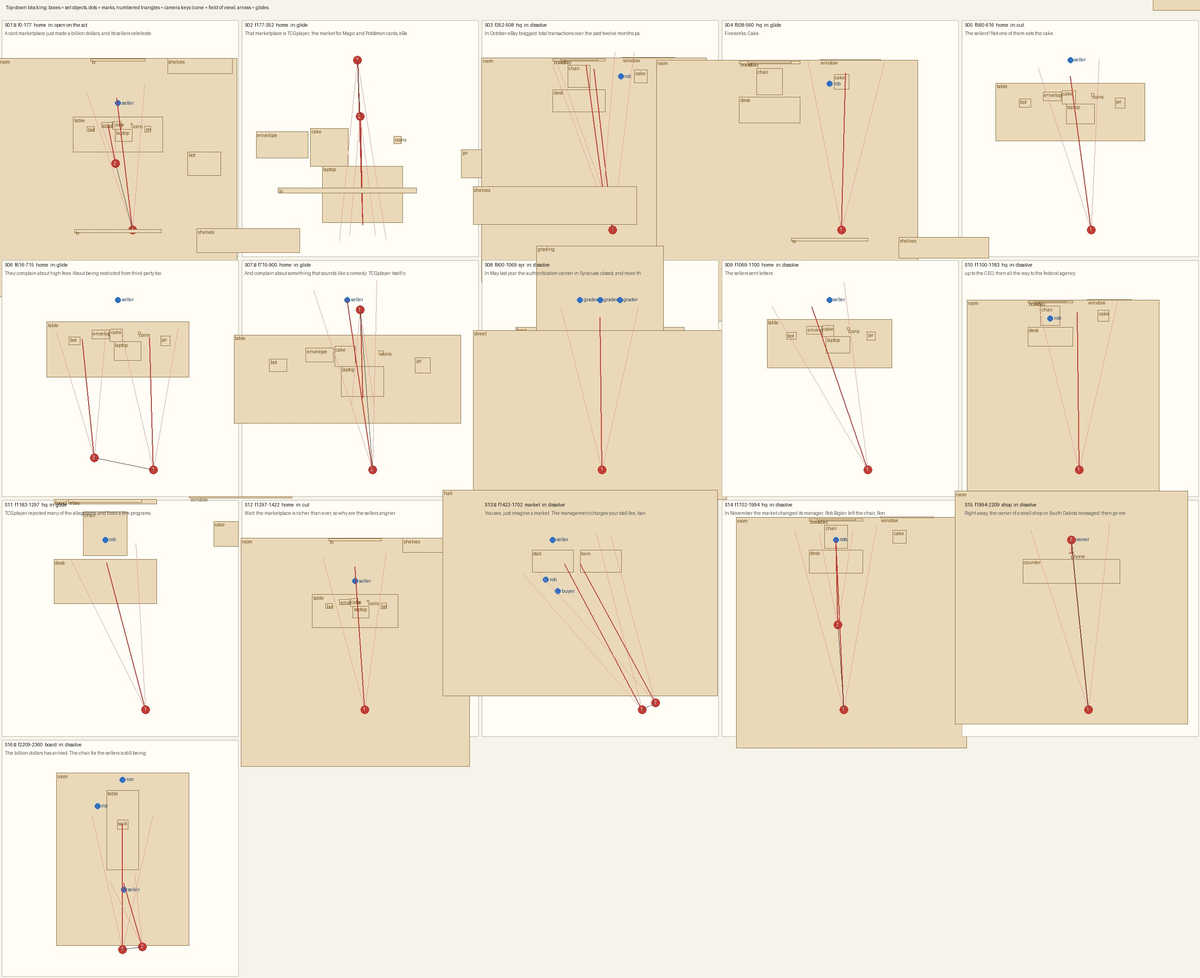
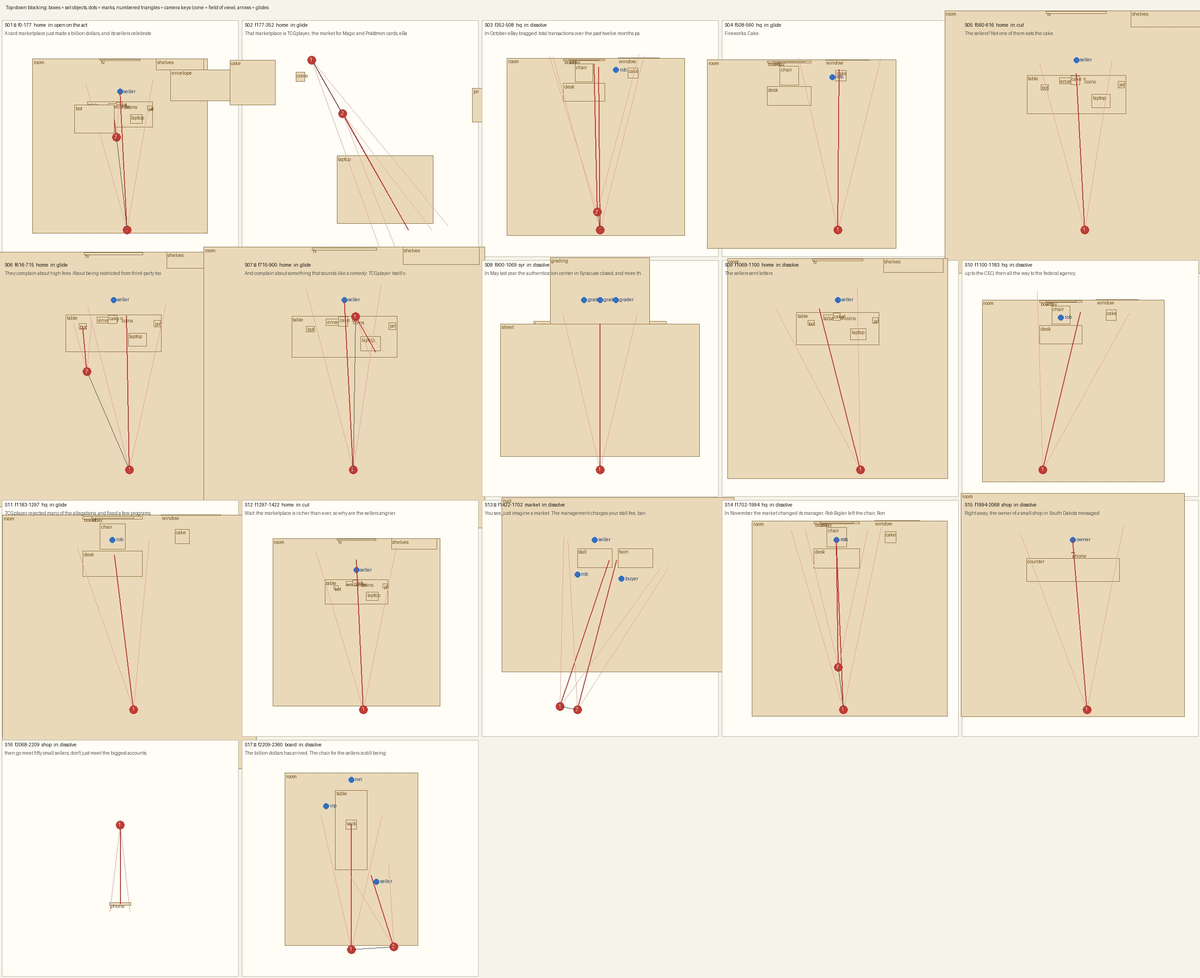
TCGplayer reel v2: notes (quality-bar re-edit, projection bug), direction, blocking sheet, CLAUDE.md status

diff --git a/videos/tcgplayer-sellers/direction.md b/videos/tcgplayer-sellers/direction.md
@@ -32,19 +32,19 @@ Hard cuts: S05 (the cake refused) and S12 ("Khoan"); plus the S07 reaction cut i
 |---|---|---|---|
 | room | new: workroom x -2.4..2.4, z -2.4..2.4, 2.6 m, sage walls, wood floor, ceiling (no shadows), window in the -x wall | [0, 1.3, 0] | [4.8, 2.6, 4.8] |
 | table | new: packing table, birch top y 0.76 on four legs, x -0.9..0.9, z -1.22..-0.52; bubble mailers and top loaders on it | [0, 0.38, -0.87] | [1.8, 0.76, 0.7] |
-| laptop | new: laptop 34 x 24 cm base, screen 34 x 21.5 cm (canvas: the TCGplayer page) facing the seller, tilted back 15 deg | [0.12, 0.76, -0.85] | [0.34, 0.24, 0.24] |
+| laptop | new: laptop 34 x 24 cm base, screen 34 x 21.5 cm (canvas: the TCGplayer page) facing the seller, tilted back 15 deg | [0.45, 0.76, -0.75] | [0.34, 0.24, 0.24] |
 | tv | new: wall TV 110 x 62 cm (canvas: business news, the GMV counter), black bezel | [0, 1.78, -2.37] | [1.1, 0.62, 0.04] |
-| envelope | new: kraft envelope 22 x 11 cm addressed CO QUAN LIEN BANG; rubber stamp (wood knob, red rubber) beside it; the stamp prints XIN ĐIỀU TRA | [-0.22, 0.76, -1.06] | [0.22, 0.004, 0.11] |
-| coins | new: a stack of 10 gold coins (r 1.6 cm, 3 mm) = a sale's takings | [0.27, 0.76, -1.08] | [0.032, 0.03, 0.032] |
-| jar | new: glass jar r 6 cm, 13 cm, paper label PHÍ, coins drop in | [0.6, 0.76, -0.98] | [0.12, 0.13, 0.12] |
-| bot | new: his third-party price scanner: grey box 14 x 6 x 10 cm with a tilted top screen (canvas: PRICE BOT, then BỊ CHẶN in red) | [-0.55, 0.76, -0.98] | [0.14, 0.06, 0.1] |
-| cake | new: (S05) an open white cake box labelled eBay and a slice of sponge cake on a paper plate in front of him | [-0.02, 0.76, -1.05] | [0.16, 0.06, 0.16] |
+| envelope | new: kraft envelope 22 x 11 cm addressed CO QUAN LIEN BANG; rubber stamp (wood knob, red rubber) beside it; the stamp prints XIN ĐIỀU TRA | [-0.2, 0.76, -1.12] | [0.22, 0.004, 0.11] |
+| coins | new: a stack of 10 gold coins (r 1.6 cm, 3 mm) = a sale's takings | [0.15, 0.76, -1.15] | [0.032, 0.03, 0.032] |
+| jar | new: glass jar r 6 cm, 13 cm, paper label PHÍ, coins drop in | [0.82, 0.76, -1.05] | [0.12, 0.13, 0.12] |
+| bot | new: his third-party price scanner: grey box 14 x 6 x 10 cm with a tilted top screen (canvas: PRICE BOT, then BỊ CHẶN in red) | [-0.58, 0.76, -1] | [0.14, 0.06, 0.1] |
+| cake | new: (S05) an open white cake box labelled eBay and a slice of sponge cake on a paper plate in front of him | [-0.02, 0.76, -1.13] | [0.16, 0.06, 0.16] |
 | shelves | new: shelves of card boxes and binders on the back wall (x 1.0..2.3) | [1.65, 1.3, -2.25] | [1.3, 1.8, 0.3] |
 
 ### hq
 - Origin in the shared world: [40, 0, 0]. Axes: the GMV board on the back wall z -3.0 under an eBay sign; the boss's desk in front of it; the window on the night city at +x.
 - Light: day; sun az/el [30, 40]. Open camera sides: +z.
-- Marks [x, z]: rob_desk [-0.4, -2.42]; rob_lever [0.72, -2.5]; rob_cake [0.98, -2.45].
+- Marks [x, z]: rob_desk [-0.4, -2.42]; rob_lever [0.68, -2.6]; rob_cake [0.98, -2.45].
 
 | id | build | centre [x, y, z] | size [x, y, z] m |
 |---|---|---|---|
@@ -70,18 +70,18 @@ Hard cuts: S05 (the cake refused) and S12 ("Khoan"); plus the S07 reaction cut i
 
 ### market
 - Origin in the shared world: [120, 0, 0]. Axes: two stalls along x facing +z; the seller sits behind his stall; buyers walk in front (z ~ 0).
-- Light: golden; sun az/el [-35, 30]. Open camera sides: +z.
-- Marks [x, z]: seller [-0.8, -1.55]; buyer [-0.65, -0.05].
+- Light: day; sun az/el [-35, 30]. Open camera sides: +z.
+- Marks [x, z]: seller [-0.8, -1.55]; buyer [0.12, -0.2].
 
 | id | build | centre [x, y, z] | size [x, y, z] m |
 |---|---|---|---|
-| hall | new: covered market hall x -4..4, z -3..3, 3.6 m, cream walls, tiled floor, ceiling with warm lamps, bunting | [0, 1.8, 0] | [8, 3.6, 6] |
+| hall | new: covered market hall x -4..4, z -3..4.5, 3.6 m, cream walls, tiled floor, ceiling with warm lamps, bunting | [0, 1.8, 0] | [8, 3.6, 6] |
 | stall | new: his stall: table x -1.4..-0.2, z -1.25..-0.6, top y 0.8, striped awning on two posts, sign SẠP CỦA BẠN; cards on tilted stands; a coin tin; his small brass pack scale | [-0.8, 0.4, -0.92] | [1.2, 0.8, 0.65] |
 | twin | new: the twin stall (identical, sign BAN QUẢN LÝ, same cards) on four castors, rolls in from x 3.4 to 0.6 | [0.6, 0.4, -0.92] | [1.2, 0.8, 0.65] |
 
 ### shop
 - Origin in the shared world: [160, 0, 0]. Axes: the counter faces +z; the owner stands behind it.
-- Light: golden; sun az/el [-30, 30]. Open camera sides: +z.
+- Light: day; sun az/el [-30, 30]. Open camera sides: +z.
 - Marks [x, z]: owner [0, -1.4].
 
 | id | build | centre [x, y, z] | size [x, y, z] m |
@@ -93,7 +93,7 @@ Hard cuts: S05 (the cake refused) and S12 ("Khoan"); plus the S07 reaction cut i
 ### board
 - Origin in the shared world: [200, 0, 0]. Axes: the long table runs along z; the boss at the head (far end, z -3.0) facing +z; the seller at the near end.
 - Light: day; sun az/el [25, 40]. Open camera sides: +z.
-- Marks [x, z]: ron [0, -3]; seller [0.05, 1.15].
+- Marks [x, z]: ron [0, -3]; seller [0.95, 0.85].
 
 | id | build | centre [x, y, z] | size [x, y, z] m |
 |---|---|---|---|
@@ -127,8 +127,8 @@ Hard cuts: S05 (the cake refused) and S12 ("Khoan"); plus the S07 reaction cut i
 
 | f | move | pos | look | fov | push %/f | blur px | why |
 |---|---|---|---|---|---|---|---|
-| 0 | open | [0.3, 1.32, 1.05] | [-0.02, 1.2, -1.6] | 40 | 0.18 | 6 | the seller under the TV |
-| 114 | glide 30 f | [-0.05, 1.18, -0.28] | [-0.2, 0.84, -1.06] | 32 | 0.3 (punch 0.8 for 14 f) | 10 | push onto the stamp |
+| 0 | open | [0.2, 1.3, 2.3] | [0, 1.05, -1.5] | 44 | 0.08 | 0 | the seller under the TV |
+| 114 | glide 30 f | [-0.1, 1.22, -0.25] | [-0.2, 0.8, -1.12] | 40 | 0.1 (punch 0.3 for 14 f) | 0 | push onto the stamp |
 
 - Kicks (7 f): f144 strength 1.
 - Physics & FX: confetti: 40 paper bits (0.3 g) launched in a cone from the popper, drift down with air drag and side flutter, lie flat on the table and floor and stay. Stamp: 4 f wind-up, held, 1 f strike, 2 f squash.
@@ -149,8 +149,8 @@ Hard cuts: S05 (the cake refused) and S12 ("Khoan"); plus the S07 reaction cut i
 
 | f | move | pos | look | fov | push %/f | blur px | why |
 |---|---|---|---|---|---|---|---|
-| 177 | open | [0.1, 1.24, -1.42] | [0.12, 0.885, -0.72] | 26 | 0.15 | 8 | his laptop, from his eyes |
-| 318 | glide 34 f | [0.11, 1.1, -1.18] | [0.12, 0.92, -0.72] | 22 | 0.4 | 8 | push into the eBay badge |
+| 177 | open | [0.19, 1.17, -1.21] | [0.532, 0.879, -0.608] | 34 | 0.15 | 0 | his laptop, from his eyes |
+| 318 | glide 34 f | [0.3, 1.08, -1.02] | [0.532, 0.86, -0.608] | 28 | 0.4 | 0 | push into the eBay badge |
 
 - Kicks (7 f): none.
 - Physics & FX: none.
@@ -165,15 +165,15 @@ Hard cuts: S05 (the cake refused) and S12 ("Khoan"); plus the S07 reaction cut i
 - Set: hq. Light: day.
 - Build: new: the HQ office: GMV board with lever, eBay sign and TCGplayer plate, desk, chair, cake table, window on the night city.
 - Blocking: Rob stands at rob_lever facing +z, his right arm (screen left) on the lever knob.
-  - rob at [0.72, -2.5], front; standing; pulls the lever f386-392; arm spreads f482; grin.
+  - rob at [0.68, -2.6], front; standing; pulls the lever f386-392; arm spreads f482; grin.
 - Action, against the words: f352-385 the board reads $987,000,000 (GMV 12 THÁNG); f386-392 he grips and pulls the lever down on 'khoe' (f389): the lever swings 50 deg; f392-479 the flaps spin, the count climbs; f480 they land on $1,000,000,000 on 'một tỷ đô' (f479-493): every flap snaps, a small dust puff off the board top; he grins and spreads his free arm.
 - Acting: Proud grin, chin up.
 - Camera keys:
 
 | f | move | pos | look | fov | push %/f | blur px | why |
 |---|---|---|---|---|---|---|---|
-| 352 | open | [0.5, 1.6, 1.6] | [0, 1.85, -2.7] | 46 | 0.15 | 4 | the board, the boss |
-| 440 | glide 40 f | [0.25, 1.55, 0.6] | [-0.2, 1.85, -2.8] | 42 | 0.3 (punch 0.7 for 16 f) | 6 | push on the count |
+| 352 | open | [0.15, 1.5, 2.8] | [0.1, 1.6, -2.7] | 50 | 0.06 | 0 | the board, the boss |
+| 440 | glide 40 f | [0.05, 1.55, 2.2] | [-0.05, 1.45, -2.8] | 54 | 0 | 0 | push on the count |
 
 - Kicks (7 f): f480 strength 0.6.
 - Physics & FX: the lever: a damped swing to its stop (3 deg overshoot, settles in 8 f).
@@ -195,7 +195,7 @@ Hard cuts: S05 (the cake refused) and S12 ("Khoan"); plus the S07 reaction cut i
 
 | f | move | pos | look | fov | push %/f | blur px | why |
 |---|---|---|---|---|---|---|---|
-| 508 | open | [1.25, 1.6, 0.9] | [1.35, 1.55, -2.7] | 44 | 0.2 | 4 | the window, the cake |
+| 508 | open | [1.15, 1.5, 2.4] | [1.2, 1.4, -2.7] | 46 | 0.1 | 0 | the window, the cake |
 
 - Kicks (7 f): none.
 - Physics & FX: the slice wedge tips 8 deg and stops.
@@ -217,7 +217,7 @@ Hard cuts: S05 (the cake refused) and S12 ("Khoan"); plus the S07 reaction cut i
 
 | f | move | pos | look | fov | push %/f | blur px | why |
 |---|---|---|---|---|---|---|---|
-| 560 | open | [0.25, 1.22, 0.55] | [0, 1.05, -1.3] | 36 | 0.2 | 8 | the seller and the slice |
+| 560 | open | [0.15, 1.6, 1.6] | [0, 1, -1.25] | 42 | 0.1 | 0 | the seller and the slice |
 
 - Kicks (7 f): none.
 - Physics & FX: the plate: kinematic slide 18 cm, decelerating (friction), stops dead.
@@ -239,8 +239,8 @@ Hard cuts: S05 (the cake refused) and S12 ("Khoan"); plus the S07 reaction cut i
 
 | f | move | pos | look | fov | push %/f | blur px | why |
 |---|---|---|---|---|---|---|---|
-| 616 | open | [0.45, 1.5, 0.65] | [0.4, 0.84, -1.02] | 40 | 0.15 | 6 | the table from above his eye line |
-| 662 | glide 36 f | [-0.3, 1.45, 0.5] | [-0.45, 0.86, -1] | 38 | 0.2 | 8 | to the scanner |
+| 616 | open | [0.3, 1.55, 1.7] | [0.25, 0.95, -1.2] | 46 | 0.1 | 0 | the table from above his eye line |
+| 652 | glide 42 f | [-0.5, 1.35, -0.15] | [-0.58, 0.86, -1] | 36 | 0.2 | 0 | to the scanner |
 
 - Kicks (7 f): none.
 - Physics & FX: coins: three ballistic hops (12 f each, 0.25 m apex), land in the jar and stay; the stack is 3 coins shorter.
@@ -262,8 +262,8 @@ Hard cuts: S05 (the cake refused) and S12 ("Khoan"); plus the S07 reaction cut i
 
 | f | move | pos | look | fov | push %/f | blur px | why |
 |---|---|---|---|---|---|---|---|
-| 715 | open | [0.1, 1.24, -1.42] | [0.12, 0.885, -0.72] | 24 | 0.15 | 8 | his listing |
-| 872 | cut | [0.2, 1.4, -0.15] | [0, 1.38, -1.5] | 34 | 0.3 | 10 | his face |
+| 715 | open | [0.19, 1.17, -1.21] | [0.532, 0.879, -0.608] | 32 | 0.15 | 0 | his listing |
+| 872 | cut | [0.15, 1.4, 1.4] | [0, 1.15, -1.5] | 40 | 0.15 | 0 | his face |
 
 - Kicks (7 f): f866 strength 1.
 - Physics & FX: the Direct tile: drops with gravity (accelerating) and stops dead with 2 f of squash; his tile is shoved 40 % down and stays.
@@ -287,7 +287,7 @@ Hard cuts: S05 (the cake refused) and S12 ("Khoan"); plus the S07 reaction cut i
 
 | f | move | pos | look | fov | push %/f | blur px | why |
 |---|---|---|---|---|---|---|---|
-| 900 | open | [0.1, 1.65, 5.6] | [0, 1.55, -1.6] | 46 | 0.15 | 3 | the building, the open door |
+| 900 | open | [0, 1.9, 7.8] | [0, 1.8, -1] | 46 | 0.04 | 0 | the building, the open door |
 
 - Kicks (7 f): f994 strength 0.4.
 - Physics & FX: shutter: rolls down at 0.13 m/f, the bottom bar hits the ground f994 and bounces 1 cm.
@@ -309,7 +309,7 @@ Hard cuts: S05 (the cake refused) and S12 ("Khoan"); plus the S07 reaction cut i
 
 | f | move | pos | look | fov | push %/f | blur px | why |
 |---|---|---|---|---|---|---|---|
-| 1069 | open | [0.55, 1.35, 0.95] | [-0.25, 1.3, -1.4] | 40 | 0.2 | 6 | the throw |
+| 1069 | open | [0.5, 1.35, 2.2] | [-0.4, 1.1, -1.3] | 46 | 0.1 | 0 | the throw |
 
 - Kicks (7 f): none.
 - Physics & FX: the plane: a glide path, 2.4 m/s, slight climb and roll.
@@ -331,7 +331,7 @@ Hard cuts: S05 (the cake refused) and S12 ("Khoan"); plus the S07 reaction cut i
 
 | f | move | pos | look | fov | push %/f | blur px | why |
 |---|---|---|---|---|---|---|---|
-| 1100 | open | [0.5, 1.6, 2.3] | [0.45, 1.45, -2.6] | 46 | 0.06 | 4 | desk and window |
+| 1100 | open | [-1, 1.6, 2.6] | [0.25, 1.4, -2.6] | 52 | 0.06 | 0 | desk and window |
 
 - Kicks (7 f): none.
 - Physics & FX: plane 1: glides down at 2 m/s, touches the desk, skids 20 cm and stops.
@@ -353,7 +353,7 @@ Hard cuts: S05 (the cake refused) and S12 ("Khoan"); plus the S07 reaction cut i
 
 | f | move | pos | look | fov | push %/f | blur px | why |
 |---|---|---|---|---|---|---|---|
-| 1183 | open | [0.15, 1.55, -0.1] | [-0.38, 1, -2.1] | 40 | 0.2 | 8 | the desk top and the boss |
+| 1183 | open | [0.1, 1.7, 1.6] | [-0.35, 1, -2.05] | 42 | 0.1 | 0 | the desk top and the boss |
 
 - Kicks (7 f): f1200 strength 0.6; f1226 strength 0.6; f1255 strength 0.5.
 - Physics & FX: stamp strikes: 4 f wind-up, 1 f strike, 2 f squash.
@@ -375,7 +375,7 @@ Hard cuts: S05 (the cake refused) and S12 ("Khoan"); plus the S07 reaction cut i
 
 | f | move | pos | look | fov | push %/f | blur px | why |
 |---|---|---|---|---|---|---|---|
-| 1297 | open | [0.2, 0.95, 1.2] | [0, 1.55, -1.8] | 40 | 0.3 | 4 | low angle: him and the TV |
+| 1297 | open | [0.2, 1, 2.5] | [0, 1.2, -1.8] | 48 | 0.07 | 0 | low angle: him and the TV |
 
 - Kicks (7 f): none.
 - Physics & FX: steam puffs rise 0.3 m and fade.
@@ -387,20 +387,20 @@ Hard cuts: S05 (the cake refused) and S12 ("Khoan"); plus the S07 reaction cut i
 - Gloss: You see, just imagine a market. The management charges your stall fee, bans you from bringing your own scale, then builds an identical stall right next to yours, selling exactly what you sell.
 - Spine link: 4. Viewer must get: Fee, banned scale, a copycat stall right beside his.
 - In: dissolve 10 f. Out: dissolve 8 f.
-- Set: market. Light: golden.
+- Set: market. Light: day.
 - Build: new: the market hall, his stall and the twin stall.
 - Blocking: Seller seated behind his stall. Buyer at buyer_a. The manager (Rob, armband) walks in from mgr_in (f1486-1508) to mgr_tin, then mgr_scale (f1542-1550), carries the scale off right (f1576-1592), comes back pushing the twin stall from mgr_push (f1596-1646).
   - seller at [-0.8, -1.55], front; seated behind his stall; smile -> nervous -> stern.
-  - rob at [-1, -0.38], front; bag held; takes the scale f1550; pushes the twin stall; smile.
-  - buyer at [-0.65, -0.05], front; browses, then steps to the twin f1681; neutral.
+  - rob at [-1.4, -0.35], front; bag held; takes the scale f1550; pushes the twin stall; smile.
+  - buyer at [0.12, -0.2], front; browses, then steps to the twin f1681; neutral.
 - Action, against the words: f1422-1480 calm market: the buyer browses his cards; f1517-1532 three coins hop from his tin into the manager's bag on 'thu phí sạp' (f1517, f1522, f1527); f1552 the manager lifts the brass scale off the stall on 'cấm' (f1548) and carries it off screen right; f1600-1646 the twin stall rolls in from the right on castors and bumps against the end of his stall on 'cạnh' (f1646): the scale-less stall shudders; f1657-1685 the twin's cards are the same cards; the buyer steps from buyer_a to buyer_b on 'bạn bán' (f1681-1695).
 - Acting: Seller: smile -> nervous -> stern. Manager: polite smile throughout. Buyer: neutral.
 - Camera keys:
 
 | f | move | pos | look | fov | push %/f | blur px | why |
 |---|---|---|---|---|---|---|---|
-| 1422 | open | [1.8, 2.4, 3.4] | [-0.45, 0.95, -0.85] | 46 | 0.12 | 3 | the calm market, high |
-| 1600 | glide 40 f | [2.2, 2.3, 3.2] | [0, 0.95, -0.85] | 46 | 0.15 | 3 | room for the twin stall |
+| 1422 | open | [-2, 2.5, 4.2] | [-0.3, 0.95, -0.85] | 58 | 0.08 | 0 | the calm market, high |
+| 1600 | glide 40 f | [-1.4, 2.5, 4.3] | [-0.05, 0.95, -0.85] | 60 | 0.08 | 0 | room for the twin stall |
 
 - Kicks (7 f): f1646 strength 0.6.
 - Physics & FX: coins: three ballistic hops into the bag; twin stall: 60 kg on castors, eases in at 0.06 m/f, bumps (0.6 kick) and stops; his stall shudders 1 cm.
@@ -423,8 +423,8 @@ Hard cuts: S05 (the cake refused) and S12 ("Khoan"); plus the S07 reaction cut i
 
 | f | move | pos | look | fov | push %/f | blur px | why |
 |---|---|---|---|---|---|---|---|
-| 1702 | open | [-0.2, 1.55, 2] | [-0.4, 1.5, -2.4] | 44 | 0.12 | 4 | the chair, the board |
-| 1860 | glide 40 f | [-0.35, 1.38, -0.2] | [-0.4, 1.38, -2.42] | 36 | 0.25 | 10 | Ron's pitch, low and close |
+| 1702 | open | [-0.2, 1.5, 2.8] | [-0.4, 1.45, -2.4] | 48 | 0.06 | 0 | the chair, the board |
+| 1860 | glide 40 f | [-0.35, 1.4, 1.5] | [-0.4, 1.05, -2.42] | 44 | 0.12 | 0 | Ron's pitch, low and close |
 
 - Kicks (7 f): none.
 - Physics & FX: the nameplate: a 180 deg flip on its hinge in 6 f.
@@ -432,30 +432,50 @@ Hard cuts: S05 (the cake refused) and S12 ("Khoan"); plus the S07 reaction cut i
 - Sound: chair creak f1795; footsteps out f1800-1830, in f1816-1842; chair creak f1844; nameplate flip f1848; a corporate synth pad under Ron's line.
 - After-state: Ron in the chair.
 
-### S15 · 1:06.5-1:13.6 · f1994-f2209 · "Lập tức, chủ một cửa hàng nhỏ ở South Dakota nhắn: vậy thì gặp năm mươi người bán nhỏ đi, đừng chỉ gặp mấy tài khoản to nhất."
-- Gloss: Right away, the owner of a small shop in South Dakota messaged: then go meet fifty small sellers, don't just meet the biggest accounts.
-- Spine link: 5. Viewer must get: A small shop owner answers with a message: meet fifty of us.
-- In: dissolve 8 f. Out: dissolve 8 f.
-- Set: shop. Light: golden.
-- Build: new: the shop: counter, shelves, the sign; the owner's phone with a chat (a message typed and sent).
+### S15 · 1:06.5-1:08.9 · f1994-f2068 · "Lập tức, chủ một cửa hàng nhỏ ở South Dakota nhắn:"
+- Gloss: Right away, the owner of a small shop in South Dakota messaged:
+- Spine link: 5. Viewer must get: A small shop owner takes out his phone.
+- In: dissolve 8 f. Out: dissolve 6 f (through-object: into his phone screen, seen from his eyes).
+- Set: shop. Light: day.
+- Build: new: the shop: counter, shelves, the sign, framed cards on the walls.
 - Blocking: Owner stands behind the counter at his mark, phone in both arms at his chest.
   - owner at [0, -1.4], front; standing, phone at the chest; stern.
-- Action, against the words: f1994-2060 he takes out his phone and starts typing on 'nhắn' (f2071); f2075-2140 line 1 'Vậy thì gặp 50 người bán nhỏ đi,' types; f2145-2190 line 2 'đừng chỉ gặp mấy tài khoản to nhất.'; f2196 SEND, the bubble flies up.
+- Action, against the words: f1994-2068 he looks down at his phone and starts typing on 'nhắn' (f2071).
 - Acting: Determined frown.
 - Camera keys:
 
 | f | move | pos | look | fov | push %/f | blur px | why |
 |---|---|---|---|---|---|---|---|
-| 1994 | open | [0.35, 1.6, 2.1] | [0, 1.35, -1.4] | 42 | 0.15 | 5 | the small shop, the owner |
-| 2066 | glide 34 f | [0, 1.66, -1.4] | [0, 1.22, -1.12] | 34 | 0.15 | 6 | his screen from his eyes |
+| 1994 | open | [0.3, 1.55, 2.25] | [0, 1.2, -1.4] | 54 | 0.06 | 0 | the small shop, the owner (wide) |
 
 - Kicks (7 f): none.
 - Physics & FX: none.
 - Light & mood: warm shop light.
+- Sound: shop ambience; first key taps.
+- After-state: Phone in hand.
+
+### S16 · 1:08.9-1:13.6 · f2068-f2209 · "vậy thì gặp năm mươi người bán nhỏ đi, đừng chỉ gặp mấy tài khoản to nhất."
+- Gloss: then go meet fifty small sellers, don't just meet the biggest accounts.
+- Spine link: 5. Viewer must get: His message, typed and sent.
+- In: dissolve 6 f. Out: dissolve 8 f.
+- Set: shop. Light: day.
+- Build: reuse the shop; his phone with a chat (the message typed and sent), seen only from his side.
+- Blocking: POV: his eyes on his phone (he is not drawn).
+- Action, against the words: f2075-2140 line 1 'Vậy thì gặp 50 người bán nhỏ đi,' types; f2145-2190 line 2 'đừng chỉ gặp mấy tài khoản to nhất.'; f2196 SEND, the bubble flies up.
+- Acting: none.
+- Camera keys:
+
+| f | move | pos | look | fov | push %/f | blur px | why |
+|---|---|---|---|---|---|---|---|
+| 2068 | open | [0, 1.66, -1.4] | [0, 1.22, -1.12] | 23 | 0.08 | 0 | his screen from his eyes |
+
+- Kicks (7 f): none.
+- Physics & FX: none.
+- Light & mood: warm shop light; the screen glow.
 - Sound: key taps; send whoosh f2196.
 - After-state: Message sent.
 
-### S16 ★ · 1:13.6-1:18.7 · f2209-f2360 · "Một tỷ đô đã về. Còn cái ghế cho người bán thì vẫn đang tìm."
+### S17 ★ · 1:13.6-1:18.7 · f2209-f2360 · "Một tỷ đô đã về. Còn cái ghế cho người bán thì vẫn đang tìm."
 - Gloss: The billion dollars has arrived. The chair for the sellers is still being searched for.
 - Spine link: 6. Viewer must get: Money on the table, every chair taken, the small seller standing.
 - In: dissolve 8 f. Out: end.
@@ -464,15 +484,15 @@ Hard cuts: S05 (the cake refused) and S12 ("Khoan"); plus the S07 reaction cut i
 - Blocking: Ron seated at the head; the four VIPs seated; the seller stands at the near end (BOARD seller), turning his look left and right.
   - ron at [0, -3], front; seated at the head; grin.
   - vip at [-0.95, -2], front; seated x4; grin.
-  - seller at [0.05, 1.15], front; standing, looks left f2263, right f2285, shrugs f2315; nervous.
+  - seller at [0.95, 0.85], front; standing, looks left f2263, right f2285, shrugs f2315; nervous.
 - Action, against the words: f2222-2237 the money sack drops from above onto the table on 'về' (f2237): a thump, it slumps and stays; f2250-2330 glide to the seller at the table end: he looks left (f2263), right (f2285), at the lens (f2310) on 'vẫn đang tìm' — no chair for him; end on his shrug.
 - Acting: VIPs and Ron grin; the seller nervous, then a shrug.
 - Camera keys:
 
 | f | move | pos | look | fov | push %/f | blur px | why |
 |---|---|---|---|---|---|---|---|
-| 2209 | open | [0, 2.45, 3.4] | [0, 0.95, -1.3] | 44 | 0.12 | 3 | the whole table |
-| 2252 | glide 40 f | [0.75, 1.5, 3.3] | [0.05, 1.3, 0.9] | 36 | 0.18 | 10 | the seller with no chair |
+| 2209 | open | [0, 2.45, 3.4] | [0, 0.95, -1.3] | 44 | 0.12 | 0 | the whole table |
+| 2252 | glide 40 f | [1.6, 1.45, 3.3] | [0.75, 0.85, 0.6] | 48 | 0.06 | 0 | the seller with no chair |
 
 - Kicks (7 f): f2237 strength 0.8.
 - Physics & FX: the sack: falls 0.9 m, slumps (squash 12 %), stays.

diff --git a/videos/tcgplayer-sellers/notes.md b/videos/tcgplayer-sellers/notes.md
@@ -18,3 +18,19 @@ Composition `TcgplayerReel` · code `src/videos/tcgplayer/` · assets `public/tc
 - S10: Rob sits at the left edge of the frame while plane 1 lands; the window is the subject there.
 - The market manager pushes the twin stall from its far end, mostly out of frame on the right.
 - Flicker check: `[coplanar] 0`; 2 short runs over 365 frames (f134-136 the push onto the stamp with confetti falling, f674-676 the glide to the scanner): both camera motion, passed after looking at the frames.
+
+## v2: re-edit to the 25 Nov quality bar (25 Nov 2026)
+The user asked to re-edit this reel to the new rules (`docs/rules.md` section 0).
+| Rule | What changed |
+|---|---|
+| No blur | Lens blur and DOF off in `Reel.tsx`; every plan key has `blur: 0` (`k()` forces it). |
+| No shadows | Sun casts no shadows; the contact blobs under the cast are gone. |
+| Bright reference palettes, no tinted grade | The colour grade is off; the shading's violet shade side is now a warm neutral and saturation is 1.3 (`BRIGHT` in `world.ts`). Workroom: cream striped wallpaper, warm wood floor, red rug. HQ: warm wood panelling, red carpet, rich-blue night window with warm lit windows. Boardroom: cream walls, green carpet, oxblood chairs, light wood table, two windows on a cloudy sky. Market and shop moved from the golden preset to daylight (the golden light turned cream walls purple). Suits brightened (Rob royal blue, Ron tan, VIPs red/blue/green/purple). Measured mean saturation of the sweep: 50.8 vs 45.7 for the Mirror reel (same measure). |
+| Blue skies with clouds | Every window now shows a blue sky with inked puffy clouds (`cloudSky`); the Syracuse street shows the day sky above the building. |
+| Dressed sets | Framed real cards on the walls (workroom, HQ, shop, boardroom), bookshelf of binders and plants in HQ, a plant, boxes, desk lamp and rug in the workroom, lit windows with flower boxes, trees and a cornice at Syracuse, goods on the back market stalls, coloured panels on the hall walls. |
+| Wider cameras | Cameras rebuilt medium-wide (full bodies with the set around them), wide at each new place; close-ups kept only for the stamp, the laptop/phone screens and the scanner. Every character subject is now head and feet in `plan.json`, so `plan_check.py` fails a shot that cuts a body (0 errors). |
+| Sharp, recognisable cards | The Base Set scans online top out at 600x825 (pokemontcg.io and pkmncards), so the Pokémon cards are now the 151 set's 733x1024 scans (Charizard ex SIR 199, Blastoise ex SIR 200, Venusaur ex SIR 198, Pikachu 25; new in the library under `sv3pt5`). On "Magic" and "Pokémon" the laptop shows one big card (Lightning Bolt, then Charizard ex) about 60 % of the frame width. The laptop canvas is drawn at 2.5x, card textures at 732x1024. |
+| Always vertical | The shop scene split into a wide (S15) and a phone POV (S16, through-object dissolve), because the camera glide into his eyes passed through his head; the market is shot from the left so the two stalls stack in depth. |
+- **Bug found (base reels):** in `world.ts` a comment swallowed `cam.updateProjectionMatrix()`, so the plan's fov never reached the camera (every shot rendered at the default 40 deg). Fixed here; the same line is in `fossil`, `gengar`, `goldenrod`, `jirachi`, `lucas` and `monaco` and should be fixed when each is re-edited.
+- Flicker check: `[coplanar] 0`; the same two motion runs as v1 (f134-136 the push onto the stamp with confetti, f674-676 the glide to the scanner), passed after looking at the frames.
+- Render as a new version: `scripts/render.command TcgplayerReel Tcgplayer_v2`.

diff --git a/CLAUDE.md b/CLAUDE.md
@@ -59,7 +59,7 @@ Account skills they call: `vn-news-script` (the script), `story-reel-director` (
 | Goldenrod heist (masked burglars, a rented minivan, Justice IL) | `GoldenrodReel` (2370 f) | `videos/goldenrod-heist/` | v1 built, ready to render (22 Nov 2026) |
 | Gengar unpaid ($576k Pristine 10, marked unpaid) | `GengarReel` (2420 f) | `videos/gengar-unpaid/` | v1 built, ready to render (22 Nov 2026) |
 | Lucas DeRuyter's big collection ("easy as candy") | `LucasReel` (2430 f) | `videos/lucas-big-collection/` | v1 built, ready to render (22 Nov 2026) |
-| TCGplayer sellers (the billion and the missing chair) | `TcgplayerReel` (2360 f) | `videos/tcgplayer-sellers/` | v1 built, ready to render (22 Nov 2026) |
+| TCGplayer sellers (the billion and the missing chair) | `TcgplayerReel` (2360 f) | `videos/tcgplayer-sellers/` | v2 re-edited to the 25 Nov quality bar, ready to render (25 Nov 2026) |
 | Avery the Poke Kid's Jirachi (scalpers) | `JirachiReel` (2250 f) | `videos/avery-jirachi-scalpers/` | v1 built, ready to render (22 Nov 2026) |
 | Fossil sheet in the loft (uncut 1999 holo sheet) | `FossilReel` (2290 f) | `videos/fossil-sheet-loft/` | v1 built, ready to render (21 Nov 2026) |
 | Monaco auction (sealed Delta Species box) | `MonacoReel` (2280 f) | `videos/monaco-auction/` | v2 rendered (glitch fix: z-fighting) on the Mac (21 Nov 2026); Chocobo and Fanatics still need the same fix |
